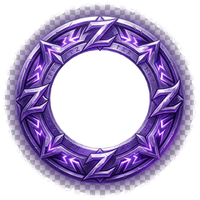
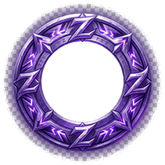
Make matchmaking fully random, shrink Genesis frame, fix retroactive VIP claims
- pop_4_and_balance now does a pure random shuffle instead of ELO/K-D snake-draft
  balancing: with a near-static ranking, the same 4 queued players always produced
  the exact same team split (same people stuck together or always on team A/B)
- Resize frame_genesis.png (200x200 -> 165x165) so it no longer overwhelms the
  avatar on the profile card
- Fix claimed_levels tracking FREE/PREMIUM together: a level claimed as FREE before
  buying VIP permanently lost its PREMIUM reward once VIP was purchased, since the
  whole level was marked claimed. Now tracked per-track ("{level}:free" /
  "{level}:premium"), with safe migration of the old plain-int format, so buying
  VIP after the fact and claiming retroactively delivers every past level's VIP
  reward without re-granting what was already claimed as FREE.

diff --git a/database.py b/database.py
@@ -830,22 +830,13 @@ def pop_4_and_balance():
 
     players = [{"discord_id": r[0], "nick": r[1], "elo": r[2], "so2_id": r[3]} for r in rows]
 
-    # Real gücə görə sırala (ELO + K/D + son forma korreksiyası), yüksəkdən aşağıya,
-    # snake draft (1+4 vs 2+3) — 4 nəfər üçün ən balanslaşdırılmış bölgü budur.
-    def _power(p):
-        row = get_player(p["discord_id"])
-        return _player_power_score(row) if row else p["elo"]
-
-    players_sorted = sorted(players, key=_power, reverse=True)
-    team_a, team_b = [], []
-    for i, p in enumerate(players_sorted):
-        if i % 4 in (0, 3):
-            team_a.append(p)
-        else:
-            team_b.append(p)
-
-    random.shuffle(team_a)
-    random.shuffle(team_b)
+    # Komanda bölgüsü tam TƏSADÜFİDİR — əvvəllər ELO/K-D əsaslı balanslaşdırma (snake draft)
+    # istifadə olunurdu, amma eyni 4 nəfər sırayla qoşulduqda nisbi güc sıralaması demək olar
+    # dəyişmirdi, ona görə komanda tərkibi HƏMİŞƏ eyni cütlüyə düşürdü (eyni adamlar ardıcıl
+    # olaraq eyni komandada/ always eyni A-B tərəfində). Hər matçda tam yeni təsadüfi
+    # qarışdırma bu təkrarlanan naxışı kökündən aradan qaldırır.
+    random.shuffle(players)
+    team_a, team_b = players[:2], players[2:]
 
     captain_a = max(team_a, key=lambda p: p["elo"])
     captain_b = max(team_b, key=lambda p: p["elo"])
@@ -3596,6 +3587,22 @@ def is_premium_pass(discord_id: int) -> bool:
     return bool(row and row[0])
 
 
+def _normalize_bp_claimed(raw_list):
+    """claimed_levels əvvəllər sadəcə level nömrələrindən (int) ibarət idi — bir level FREE
+    olaraq tələb edilən kimi TAM claim olunmuş sayılırdı, yəni sonradan VIP alınsa, o levelin
+    artıq keçmiş PREMIUM mükafatı əbədi itirilirdi (claim_bp_rewards bütün levelı ötürürdü).
+    İndi claim FREE/PREMIUM üçün AYRI-AYRI "{level}:free" / "{level}:premium" açarları ilə
+    izlənir. Köhnə tək-ədədli qeydləri "{n}:free"-ə çeviririk (yalnız FREE-nin artıq
+    verildiyini bilirik — PREMIUM görünəndə YENİDƏN veriləcək, bu, itkidən daha təhlükəsizdir)."""
+    out = set()
+    for x in raw_list:
+        if isinstance(x, int):
+            out.add(f"{x}:free")
+        else:
+            out.add(x)
+    return out
+
+
 def get_pass_data(discord_id: int) -> dict:
     import json
     ensure_free_pass(discord_id)
@@ -3607,8 +3614,8 @@ def get_pass_data(discord_id: int) -> dict:
     conn.close()
     if not row:
         return {"level": 0, "xp": 0, "claimed": [], "is_premium": False}
-    return {"level": row[0], "xp": row[1], "claimed": json.loads(row[2] or "[]"),
-            "is_premium": bool(row[3])}
+    claimed = sorted(_normalize_bp_claimed(json.loads(row[2] or "[]")))
+    return {"level": row[0], "xp": row[1], "claimed": claimed, "is_premium": bool(row[3])}
 
 
 def _grant_bp_item_reward(discord_id, reward):
@@ -3667,24 +3674,26 @@ def add_bp_xp(discord_id: int, xp: int) -> dict:
 
 
 def get_pending_bp_reward_count(discord_id: int) -> int:
-    """Hazırda tələb edilməmiş (claim olunmamış) mükafat sayını qaytarır."""
+    """Hazırda tələb edilməmiş (claim olunmamış) mükafat sayını qaytarır. FREE və PREMIUM
+    hər level üçün AYRI-AYRI izlənir — VIP sonradan alınsa, əvvəlki levellərin PREMIUM
+    mükafatı da tələb ediləcək kimi görünür (bax: _normalize_bp_claimed)."""
     data = get_pass_data(discord_id)
     claimed = set(data["claimed"])
     count = 0
     for lv in range(1, data["level"] + 1):
-        if lv in claimed:
-            continue
-        if BP_LEVEL_REWARDS.get(lv):
+        if f"{lv}:free" not in claimed and BP_LEVEL_REWARDS.get(lv):
             count += 1
-        if data["is_premium"] and BP_PREMIUM_REWARDS.get(lv):
+        if data["is_premium"] and f"{lv}:premium" not in claimed and BP_PREMIUM_REWARDS.get(lv):
             count += 1
     return count
 
 
 def claim_bp_rewards(discord_id: int) -> list:
     """Çatılmış amma hələ tələb edilməmiş bütün levellərin mükafatlarını faktiki verir
-    (coin/kart/skin/AZN/banner/çərçivə inventara düşür) və həmin levelləri claimed_levels-ə
-    əlavə edir. Verilən mükafatların siyahısını (level/track/type/label) qaytarır."""
+    (coin/kart/skin/AZN/banner/çərçivə inventara düşür) və FREE/PREMIUM-u AYRI-AYRI
+    claimed_levels-ə əlavə edir. Beləliklə VIP-i levellər keçildikdən SONRA alan oyunçu,
+    claim etdikdə əvvəlki levellərin PREMIUM mükafatını da alır (FREE-nin artıq alınmış
+    olması PREMIUM-u əngəlləmir). Verilən mükafatların siyahısını qaytarır."""
     import json
     ensure_free_pass(discord_id)
     conn   = _get_conn()
@@ -3696,31 +3705,34 @@ def claim_bp_rewards(discord_id: int) -> list:
         conn.close(); return []
 
     level, claimed_json, is_premium = row
-    claimed = set(json.loads(claimed_json or "[]"))
+    claimed = _normalize_bp_claimed(json.loads(claimed_json or "[]"))
     granted = []
     pending_grants = []  # coins-olmayan mükafatlar — commit+close-dan SONRA tətbiq olunur
 
     for lv in range(1, level + 1):
-        if lv in claimed:
-            continue
-        free_reward = BP_LEVEL_REWARDS.get(lv)
-        if free_reward:
-            granted.append({"level": lv, "track": "free", **free_reward})
-            if free_reward["type"] == "coins":
-                cursor.execute("UPDATE players SET coins=coins+? WHERE discord_id=?",
-                               (free_reward["value"], discord_id))
-            else:
-                pending_grants.append(free_reward)
-        if is_premium:
-            prem_reward = BP_PREMIUM_REWARDS.get(lv)
-            if prem_reward:
-                granted.append({"level": lv, "track": "premium", **prem_reward})
-                if prem_reward["type"] == "coins":
+        free_key = f"{lv}:free"
+        if free_key not in claimed:
+            free_reward = BP_LEVEL_REWARDS.get(lv)
+            if free_reward:
+                granted.append({"level": lv, "track": "free", **free_reward})
+                if free_reward["type"] == "coins":
                     cursor.execute("UPDATE players SET coins=coins+? WHERE discord_id=?",
-                                   (prem_reward["value"], discord_id))
+                                   (free_reward["value"], discord_id))
                 else:
-                    pending_grants.append(prem_reward)
-        claimed.add(lv)
+                    pending_grants.append(free_reward)
+            claimed.add(free_key)
+        if is_premium:
+            prem_key = f"{lv}:premium"
+            if prem_key not in claimed:
+                prem_reward = BP_PREMIUM_REWARDS.get(lv)
+                if prem_reward:
+                    granted.append({"level": lv, "track": "premium", **prem_reward})
+                    if prem_reward["type"] == "coins":
+                        cursor.execute("UPDATE players SET coins=coins+? WHERE discord_id=?",
+                                       (prem_reward["value"], discord_id))
+                    else:
+                        pending_grants.append(prem_reward)
+                claimed.add(prem_key)
 
     cursor.execute("UPDATE battle_pass SET claimed_levels=? WHERE discord_id=? AND season_id=?",
                    (json.dumps(sorted(claimed)), discord_id, BP_SEASON_ID))

diff --git a/pass_visual.py b/pass_visual.py
@@ -407,8 +407,9 @@ def _draw_frame(pass_data: dict, missions: list, glow: float):
     for ci, lv in enumerate(PASS_MILESTONES):
         cx   = LEFT_W + ci * CELL_W
         done = lv <= level
-        is_claimed = lv in claimed
-        pending_claim = done and not is_claimed
+        free_claimed = f"{lv}:free" in claimed
+        prem_claimed = f"{lv}:premium" in claimed
+        pending_claim = done and not free_claimed
         is_cur = (lv == level + 1 and lv > 0) or (level == 0 and lv == 5)
 
         # Free cell
@@ -430,7 +431,7 @@ def _draw_frame(pass_data: dict, missions: list, glow: float):
         draw.line([(cx, y0), (cx, y0 + FREE_H)], fill=PASS_BORDER, width=1)
 
         # Premium cell
-        prem_pending = pending_claim and is_premium
+        prem_pending = done and is_premium and not prem_claimed
         if prem_pending:
             pc = (55, 42, 8)
         elif done and is_premium:
@@ -566,8 +567,10 @@ def generate_pass_levels_card(pass_data: dict, output_path: str):
             cx = PAD + col * CW
             cy = HEAD + row * (BLOCK_H + 10)
             done = lv <= level
-            is_claimed = lv in claimed
-            pending_claim = done and not is_claimed
+            free_claimed = f"{lv}:free" in claimed
+            prem_claimed = f"{lv}:premium" in claimed
+            pending_claim = done and not free_claimed
+            prem_pending = done and is_premium and not prem_claimed
             is_milestone = lv in PASS_MILESTONES
 
             # Level number strip
@@ -577,7 +580,7 @@ def generate_pass_levels_card(pass_data: dict, output_path: str):
                       fill=(20, 15, 30) if done else GRAY2, anchor="mm")
 
             # VIP cell (TOP)
-            if pending_claim and is_premium:
+            if prem_pending:
                 vc = (55, 42, 8)
             elif done and is_premium:
                 vc = (42, 28, 65)
@@ -586,7 +589,7 @@ def generate_pass_levels_card(pass_data: dict, output_path: str):
             draw.rectangle([(cx, cy + 22), (cx + CW - 2, cy + 22 + VIP_H)], fill=vc)
             vi = _reward_img(lv, True, (CW - 12, VIP_H - 22))
             img.paste(vi, (cx + 6, cy + 24), vi)
-            if pending_claim and is_premium:
+            if prem_pending:
                 draw.text((cx + CW - 12, cy + 22 + 10), "!", font=_f(12, True),
                           fill=(255, 200, 50), anchor="mm")
             elif done and is_premium:
